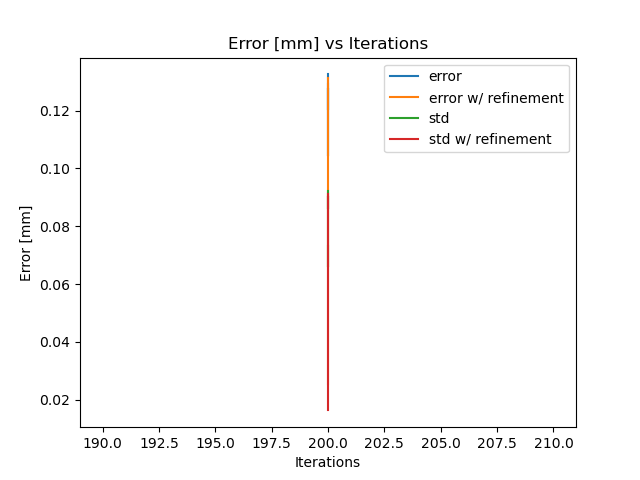
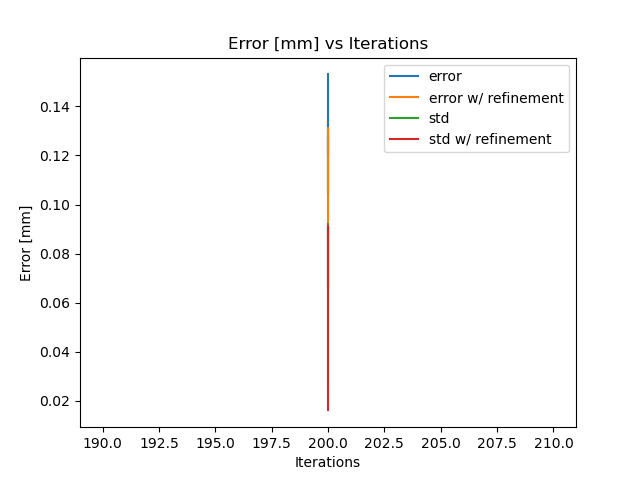
Update EPS value and results

diff --git a/eps_test.py b/eps_test.py
@@ -963,7 +963,7 @@ if __name__ == "__main__":
     
     opts = parser.parse_args()   
 
-    output_dir = 'logs/eps_test3/'
+    output_dir = 'logs/eps_test4/'
     if not os.path.exists(output_dir):
         os.makedirs(output_dir)
 
@@ -975,7 +975,7 @@ if __name__ == "__main__":
         opts.frontend = 'RANSAC_refine'
 
     if opts.dataset == 'lm':
-        eps = 0.01
+        eps = 0.15
         eps_list = []
         offset_list = []
         offset_list_w_refinement = []
@@ -986,7 +986,7 @@ if __name__ == "__main__":
         fps_list_w_refinement = []
         iteration_list = []
         iterations = [5, 10, 15, 20, 30, 40, 50, 60, 100, 200, 400]
-        while eps < 0.2:
+        while eps < 0.4:
             itr = 200
             print("Current eps: ", eps)
             offset, stds, fps, offset_w_refinement, std_w_refinement, fps_w_refinement, inlier = estimate_6d_pose_lm(opts, eps, itr)
